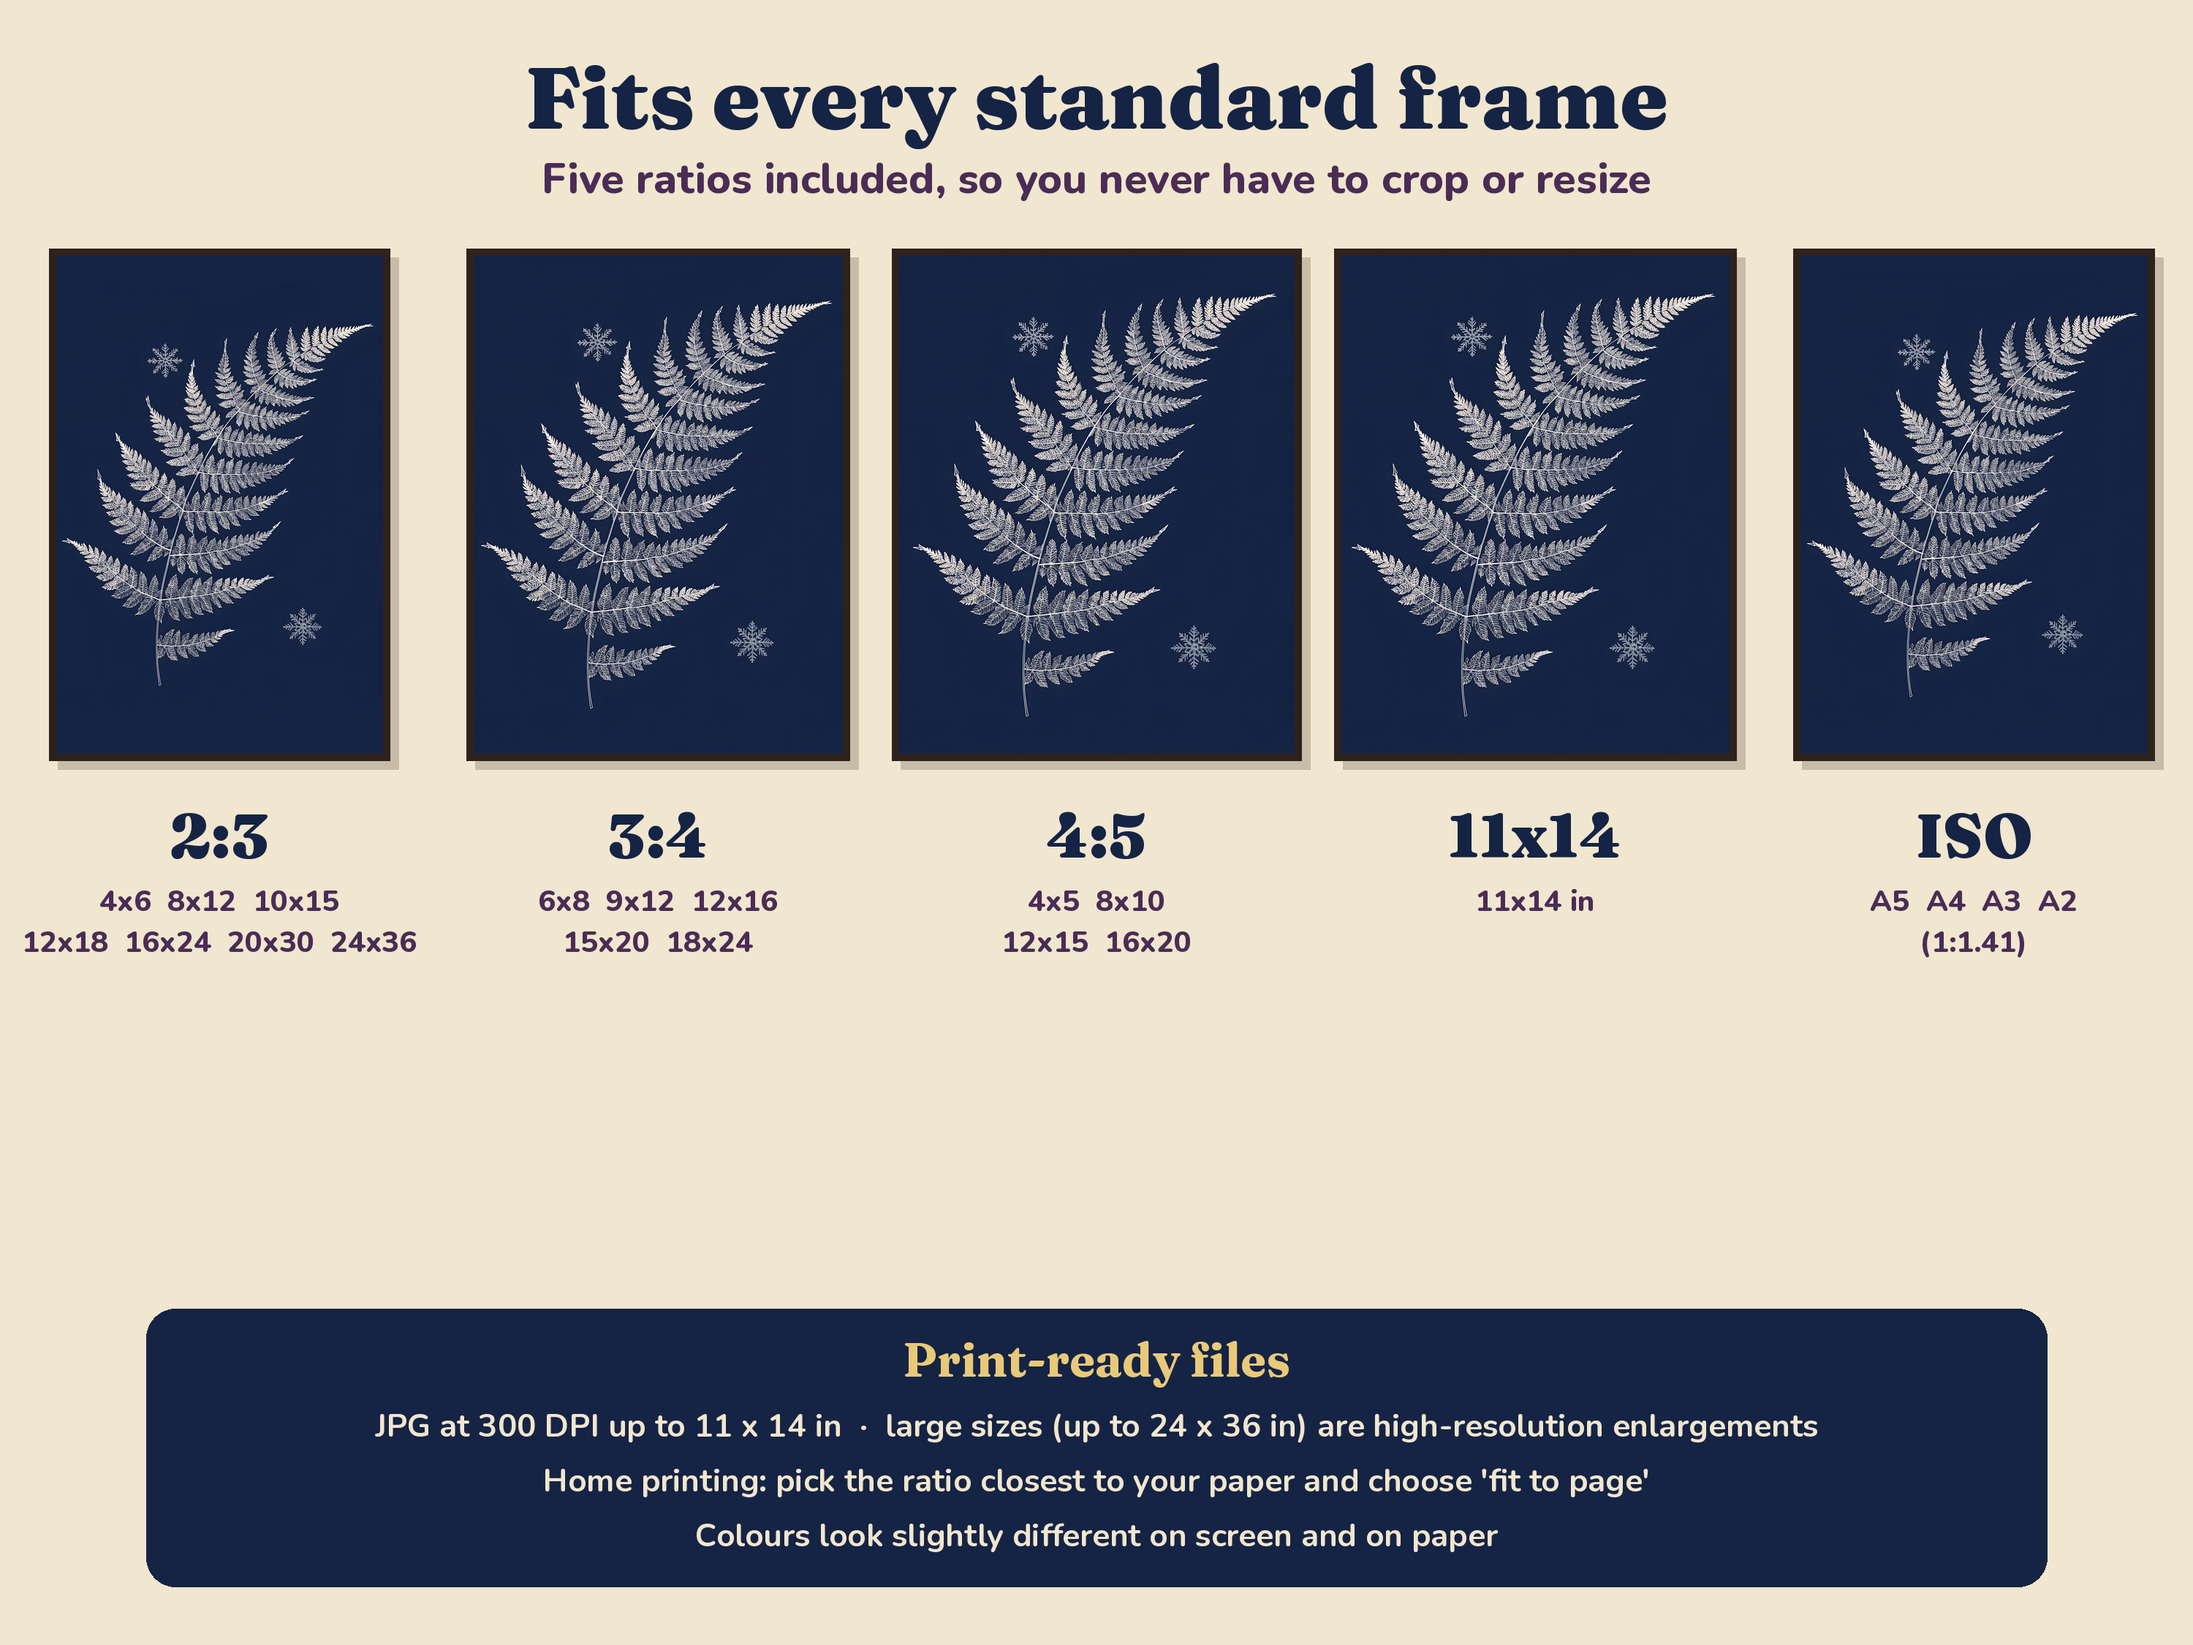
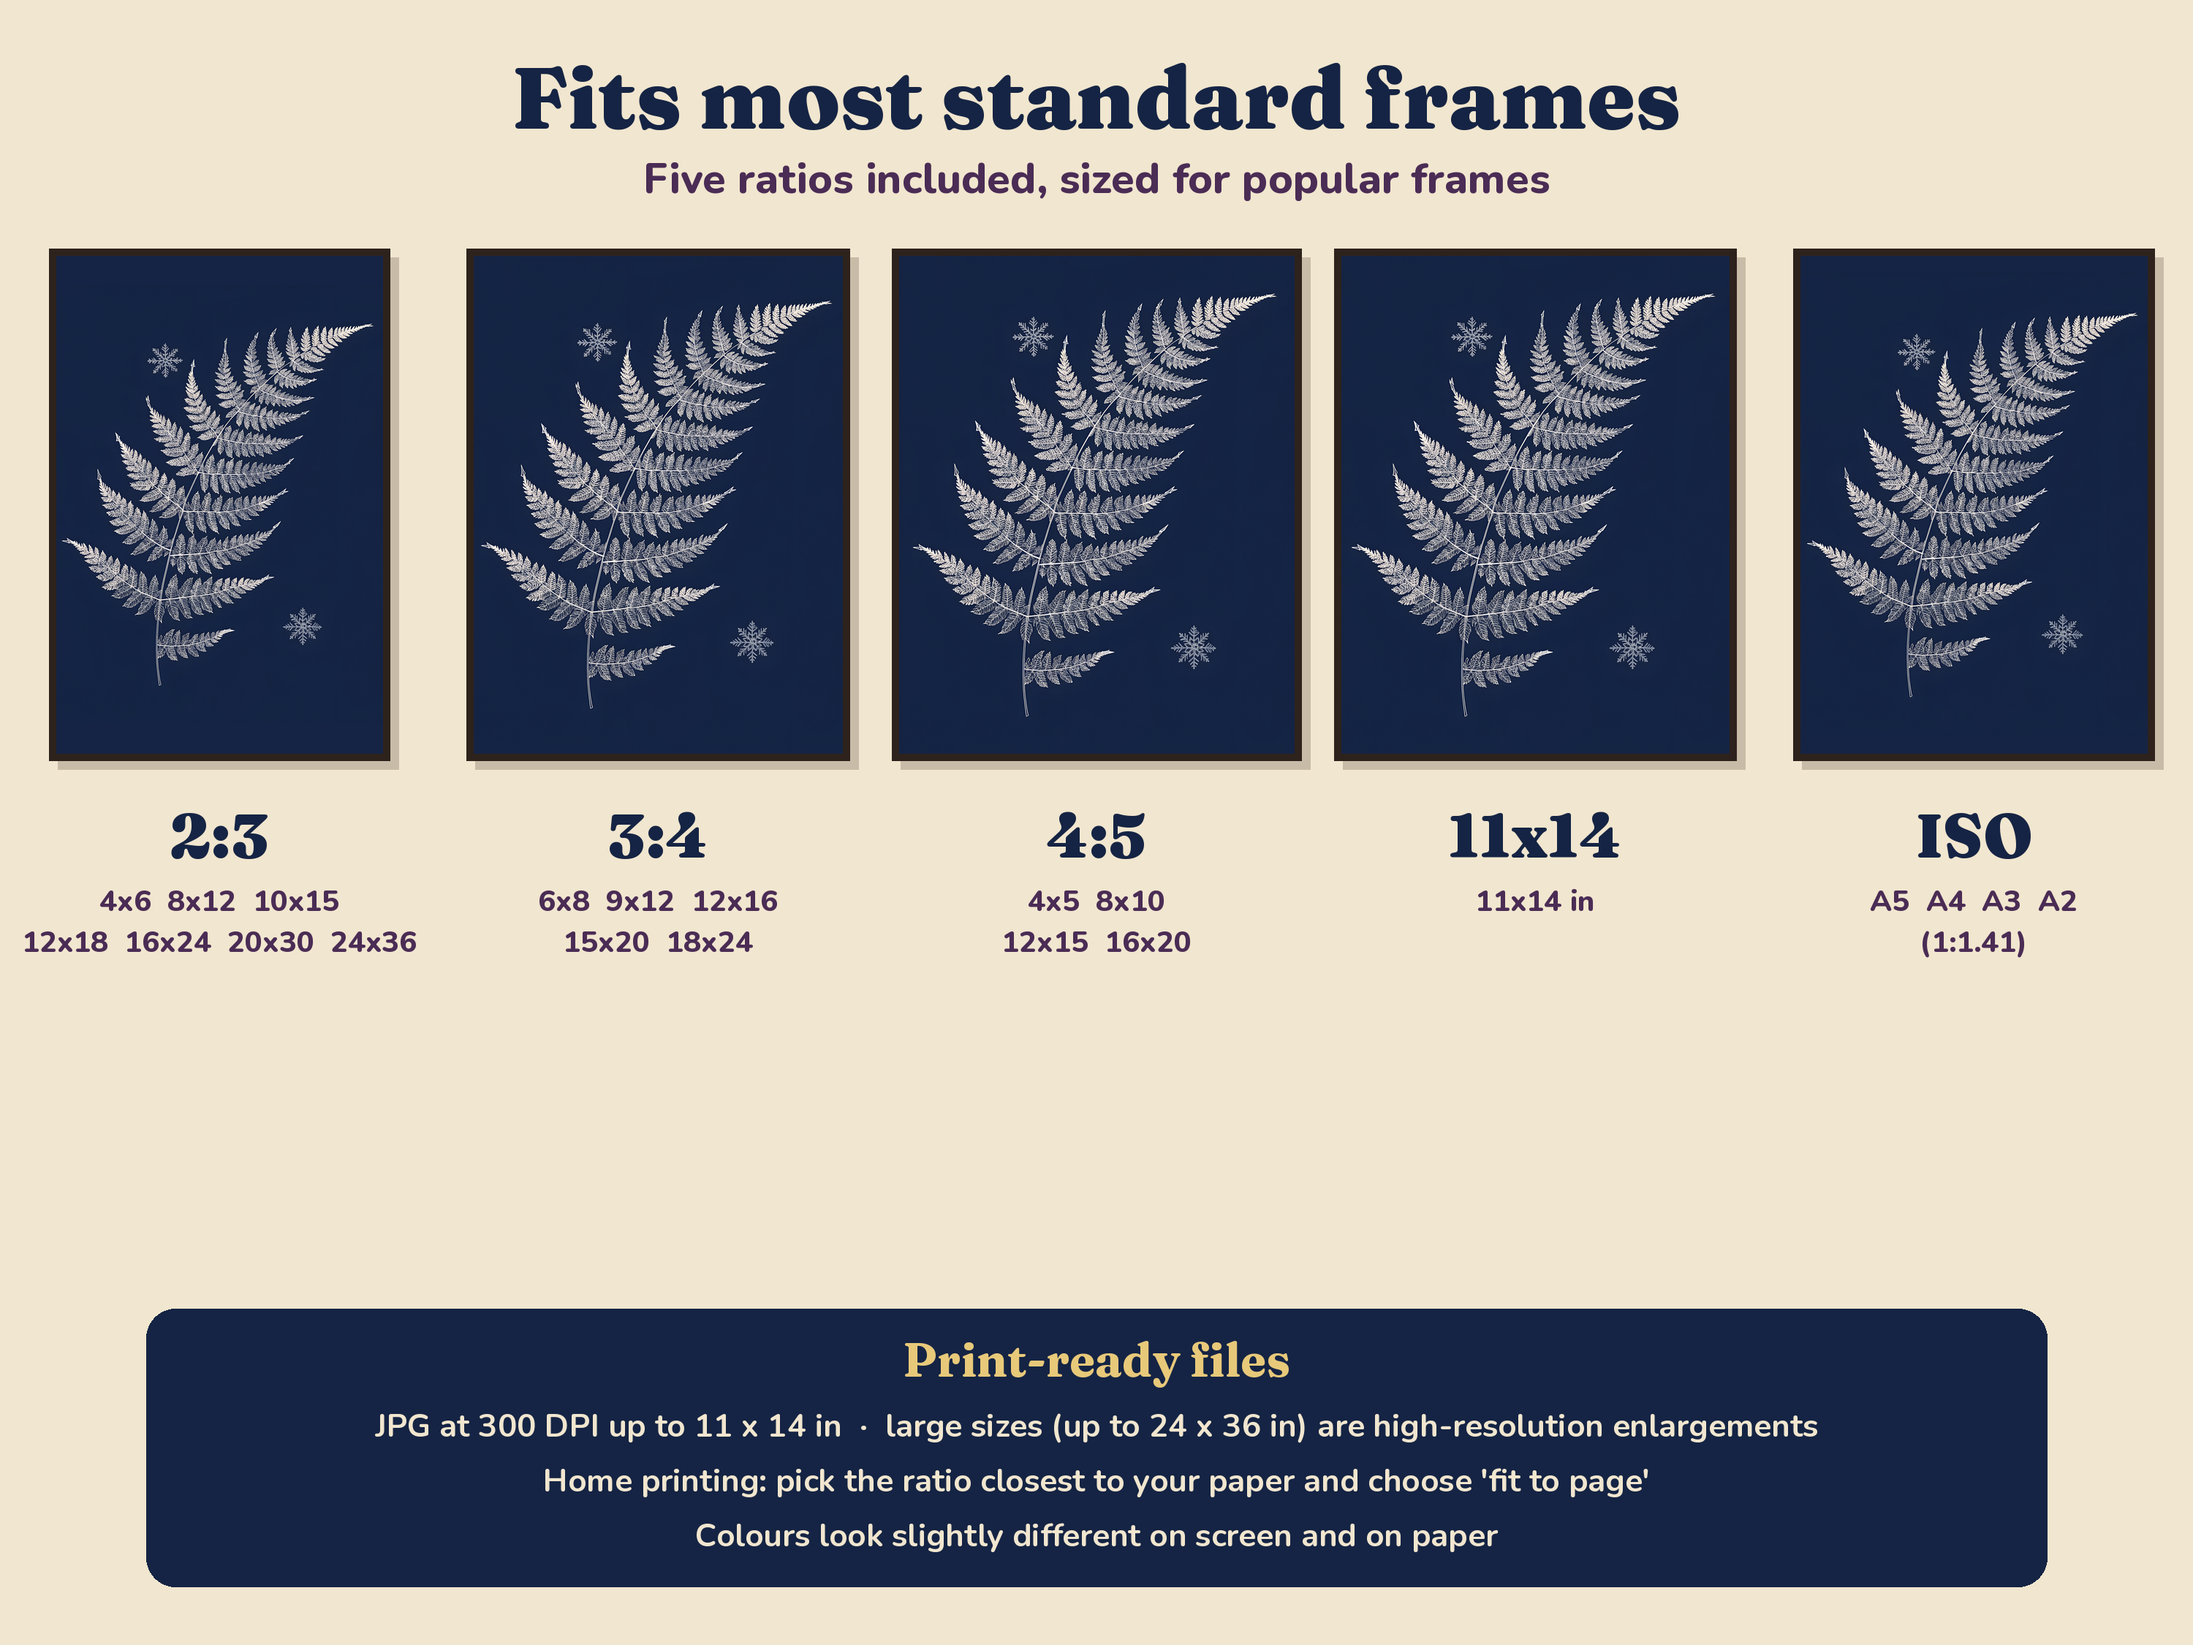
027 winter botanical: fix round 2 (PDF DPI wording, soften image claims)
Claude-Session: https://claude.ai/code/session_01S6uJYEB3RbemxDTYZH724b

Changed region(s): [[0.217, 0.0311, 0.775, 0.1244]]

diff --git a/bundles/027-winter-botanical-wall-art/listing_images.py b/bundles/027-winter-botanical-wall-art/listing_images.py
@@ -64,7 +64,7 @@ for (n, slug), cx in zip(ART, (500, 1500, 2500)):
     d.rectangle((cx - aw // 2, 330, cx + aw // 2, 330 + a.height), outline=ICE, width=3)
     text_c(d, 330 + a.height + 24, {"pine": "Frosted pine", "fern": "Frosted fern", "hellebore": "Winter rose"}[n], F("Fraunces-700", 60), CREAM, cx=cx)
 d.rounded_rectangle((200, 1750, 2800, 2150), 40, fill=(33, 52, 92))
-for i, (h1, h2) in enumerate((("15 JPG files", "3 prints in each of 5 ratios, up to 4400 x 6600 px"), ("5 PDF files", "one per ratio, 3 pages, sized for print shops"), ("Print at home or order a print", "any frame, any size from 4 x 6 to 24 x 36 in"))):
+for i, (h1, h2) in enumerate((("15 JPG files", "3 prints in each of 5 ratios, up to 4400 x 6600 px"), ("5 PDF files", "one per ratio, 3 pages, sized for print shops"), ("Print at home or order a print", "most sizes from 4 x 6 to 24 x 36 in"))):
     x = 260 + i * 850
     text_c(d, 1790, h1, F("Fraunces-700", 56), GOLD, cx=x + 380); 
     f = F("Nunito-700", 42); words = h2.split(); line = ""; y = 1890
@@ -75,8 +75,8 @@ for i, (h1, h2) in enumerate((("15 JPG files", "3 prints in each of 5 ratios, up
 im.save("listing-images/2-whats-included.png")
 # 3 sizes
 im = Image.new("RGB", (W, H), CREAM); d = ImageDraw.Draw(im)
-text_c(d, 60, "Fits every standard frame", F("Fraunces-900", 118), NAVY)
-text_c(d, 205, "Five ratios included, so you never have to crop or resize", F("Nunito-800", 58), (74, 44, 85))
+text_c(d, 60, "Fits most standard frames", F("Fraunces-900", 118), NAVY)
+text_c(d, 205, "Five ratios included, sized for popular frames", F("Nunito-800", 58), (74, 44, 85))
 R = [("2:3", "4x6  8x12  10x15\n12x18  16x24  20x30  24x36", 2 / 3), ("3:4", "6x8  9x12  12x16\n15x20  18x24", .75), ("4:5", "4x5  8x10\n12x15  16x20", .8), ("11x14", "11x14 in", 11 / 14), ("ISO", "A5  A4  A3  A2\n(1:1.41)", 1 / 1.414)]
 for i, (lab, sizes, r) in enumerate(R):
     cx = 300 + i * 600; hh = 700; ww = int(hh * r)

diff --git a/bundles/027-winter-botanical-wall-art/LISTING.md b/bundles/027-winter-botanical-wall-art/LISTING.md
@@ -17,7 +17,7 @@ Bring a calm, cool winter mood to your walls. This set of 3 printable botanical 
 WHAT'S INCLUDED
 - 3 prints: Frosted Pine, Frosted Fern, Winter Rose
 - 15 high-resolution JPG files: each print in 5 ratios (2:3, 3:4, 4:5, 11x14 and ISO/A-series)
-- 5 PDF files: one per ratio, 3 pages each, set to the largest size of that ratio
+- 5 PDF files: one per ratio, 3 pages each. These are lighter, lower-resolution files (about 80-130 DPI at the largest size), handy for print shops and smaller sizes. Use the JPG files for the best quality
 - A short guide with the size list and printing tips
 
 SIZES YOU CAN PRINT
@@ -29,6 +29,7 @@ SIZES YOU CAN PRINT
 Every print has a flat midnight blue background that continues to the edge of each ratio, so nothing important is cropped.
 
 GOOD TO KNOW
+- Use the JPG files for the best quality; the PDFs are lower resolution (about 80-130 DPI at their largest size)
 - JPG files are about 300 DPI up to roughly 11 x 14 in. Larger sizes (up to 24 x 36 in) are high-resolution enlargements: they look fine from normal viewing distance, but fine detail is softer up close
 - Print at 100% (actual size) on matte or satin photo paper, or send the JPG to a print shop; the deep blue looks best on matte paper
 - Colors can look slightly different on screen and on paper, and between printers

diff --git a/log/ACTION-LOG.md b/log/ACTION-LOG.md
@@ -304,3 +304,4 @@
 - 2026-10-20 23:20 UTC: 6:12pm ET shift (Manager v4): Etsy pod/008 Christmas Bow Tee built, QA rejected round 1 (flat art), redrawn with 1 flash gen (~$0.03), approved round 2, published Etsy 4599800994 ($28.99). Etsy reports 32 active (log arithmetic said 33; reconcile next Analyst pull). TpT 025 Royalty Free ($10) QA approved round 1, released. Next: 6:12am ET.
 - 2026-10-21 Designer: built bundles/027-winter-botanical-wall-art (Winter Wall Art Set of 3, Midnight Blue; $5.00, digital PDF+JPG, 3 AI images via flash n=4 + upscale, 100 credits incl. drafts, balance 1914; new formats/printable-wall-art.md; gen.py --check OK; zip 19.2 MB). Awaiting QA. Not published.
 - 2026-10-21 QA: bundles/027 Winter Botanical Wall Art REJECTED round 1 (art and ZIP fine; fix listing PDF-resolution wording, image 3 overclaims 'fits every frame / never crop or resize'). Not published.
+- 2026-10-21 Designer: bundles/027 fix round 2 applied (PDF ~80-130 DPI + use-JPG wording in LISTING.md/listing.json; images 2 and 3 softened to 'most'; listing images rebuilt 3000x2250; ZIP unchanged). Awaiting QA re-check. Not published.
